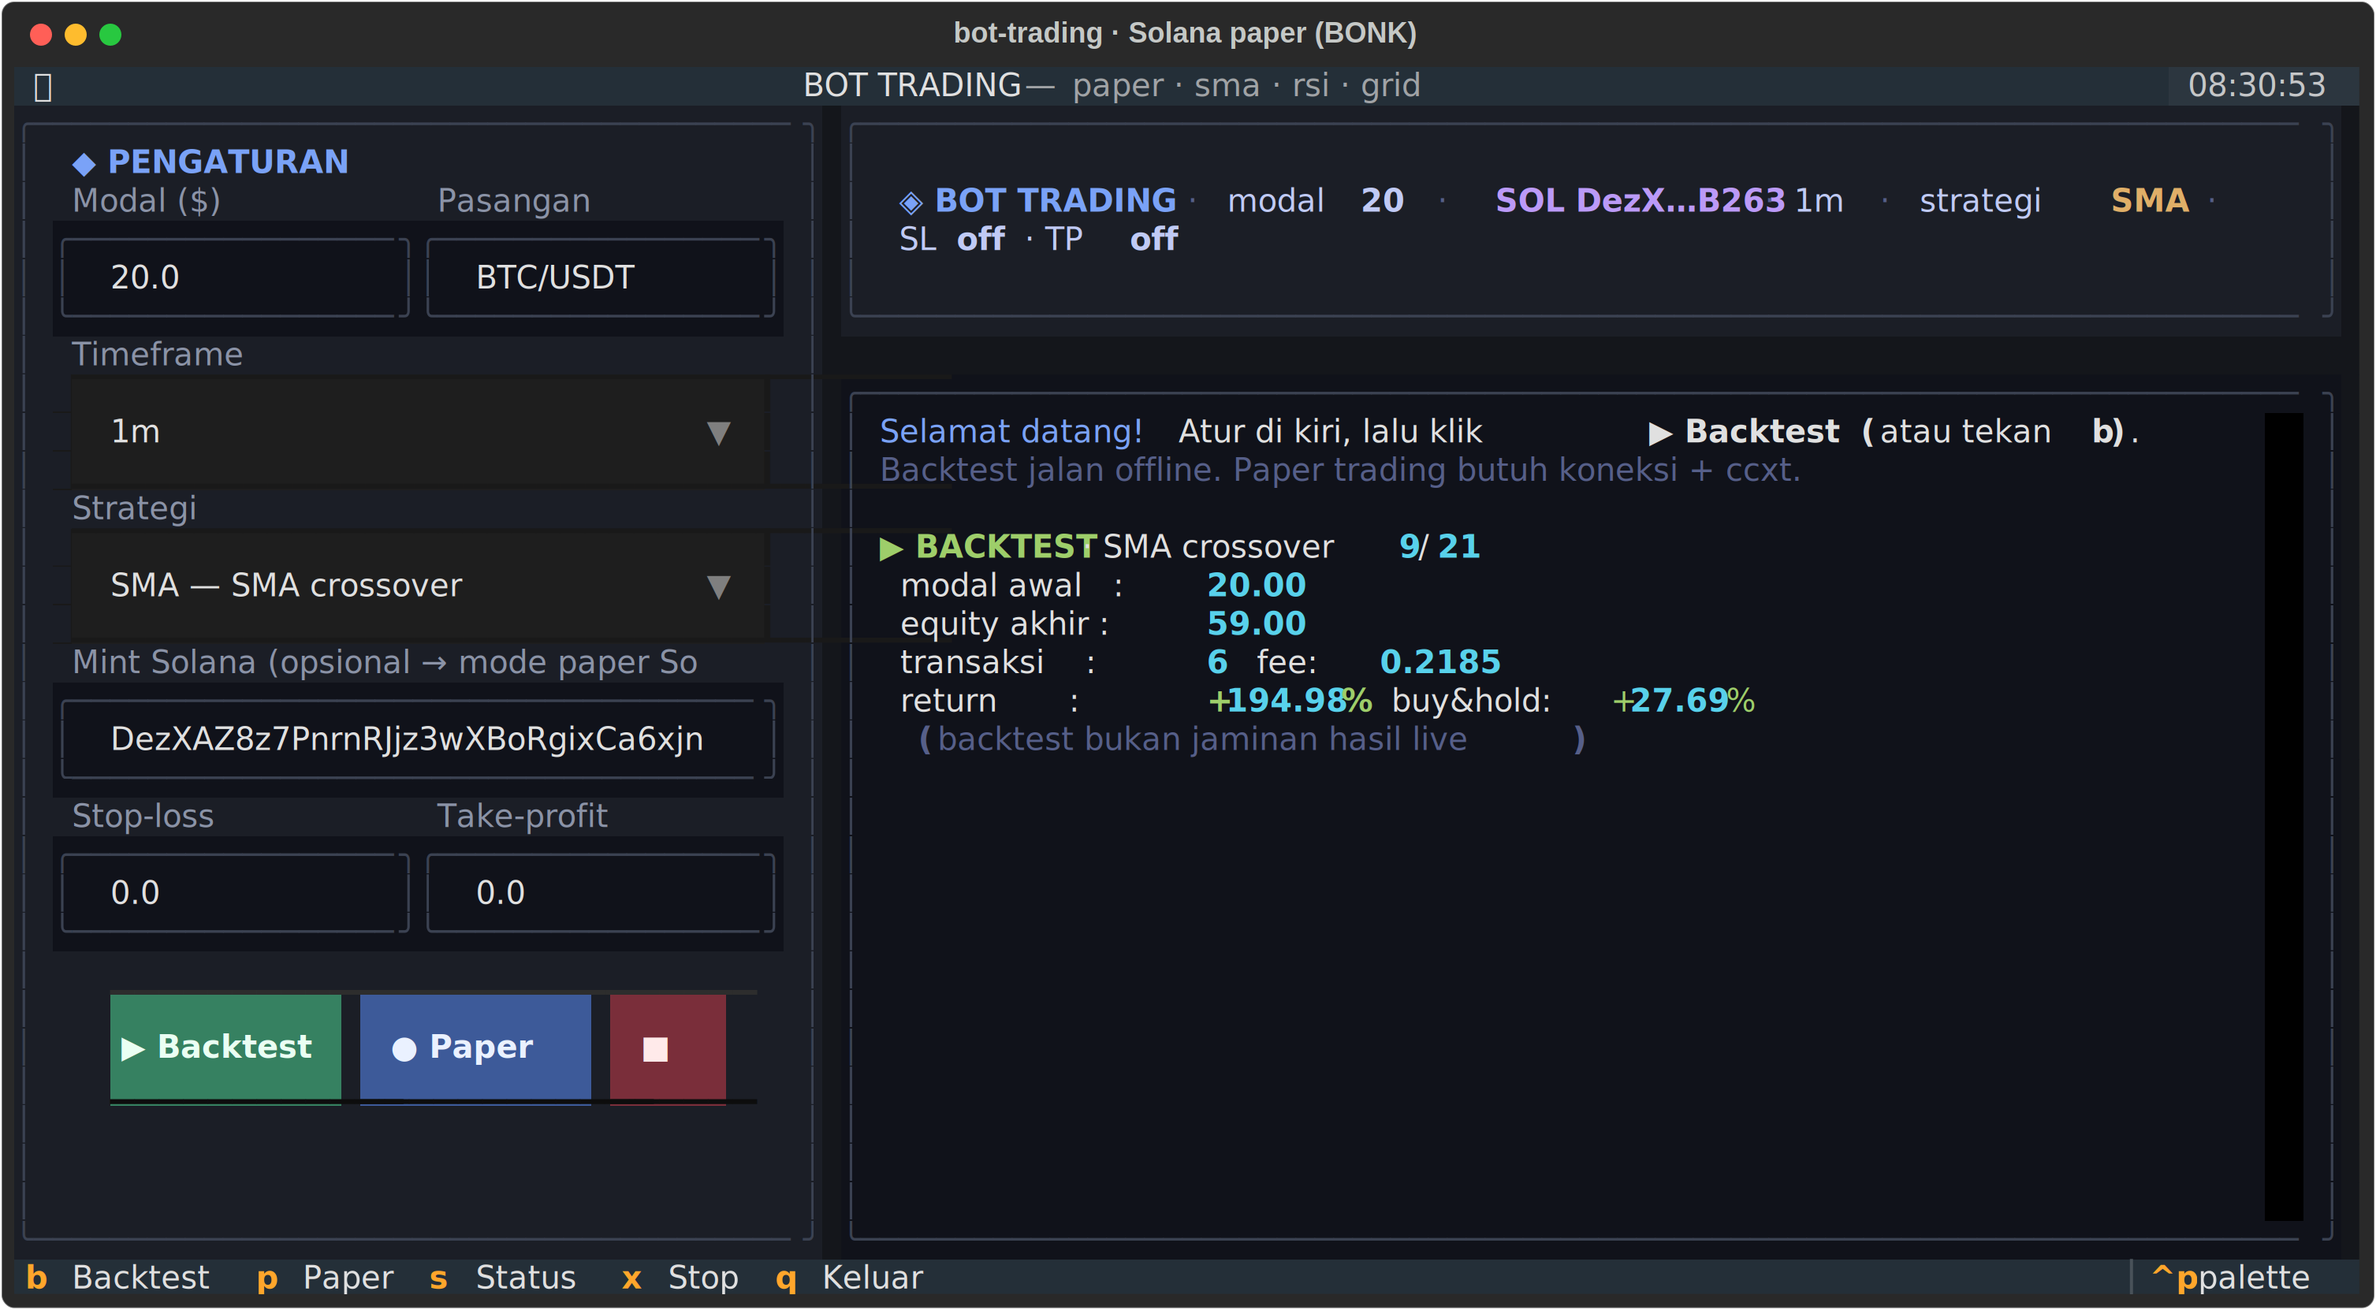
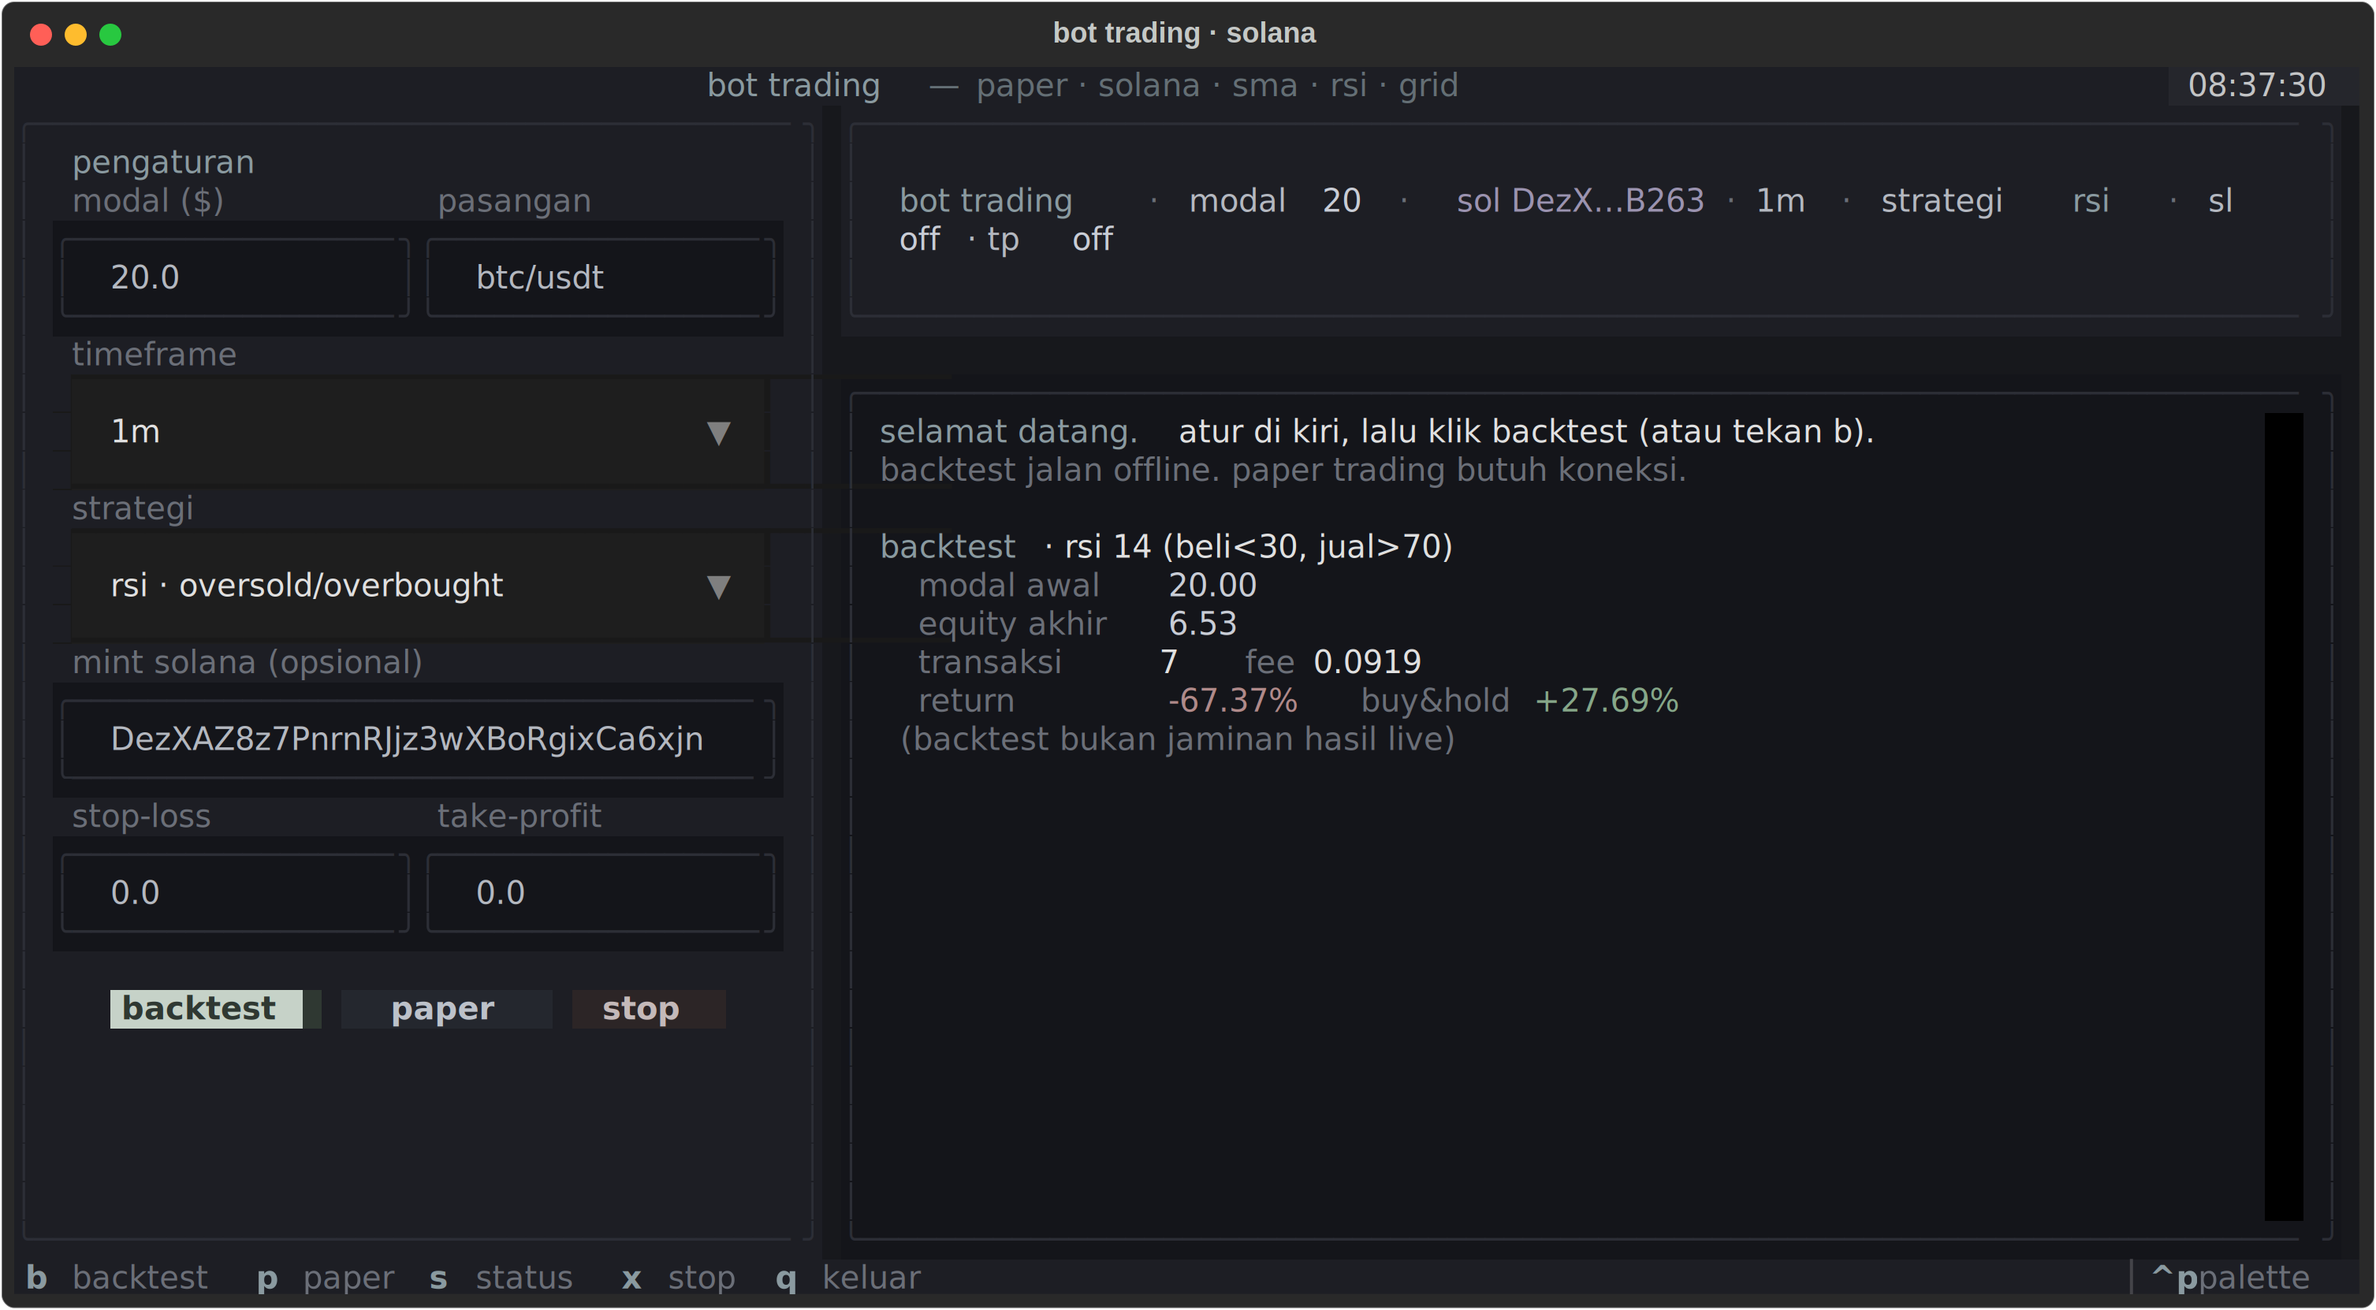
style(tui): tampilan minimalis — huruf kecil, tanpa ikon, warna kalem
- Semua teks lowercase, ikon (◆◈●■▶) dihapus, header-icon disembunyikan.
- Palet low-saturation (slate/abu) + satu warna semantik lembut untuk
  return (hijau/merah kalem) dan penanda solana (mauve redup).
- Matikan auto-highlight RichLog (biang angka cyan norak) & mute warna
  tombol + footer key.
- docs/tui.png & docs/tui_solana.png diperbarui.

Claude-Session: https://claude.ai/code/session_01QtiBvaPKcBeP3mWTks9H4K

diff --git a/bot/tui.py b/bot/tui.py
@@ -1,7 +1,6 @@
-"""TUI full-screen ala opencode — bisa diklik (mouse) & keyboard.
+"""tui minimalis — huruf kecil, tanpa ikon, warna kalem. bisa diklik & keyboard.
 
-Layout landscape ringkas biar nyaman di layar lebar / HP miring.
-Butuh: pip install textual   |   Jalankan: python3 main.py
+butuh: pip install textual   |   jalankan: python3 main.py
 """
 from __future__ import annotations
 
@@ -13,44 +12,64 @@ from textual.widgets import (Button, Footer, Header, Input, Label, RichLog,
 
 from .backtest import run_backtest, synthetic_prices
 from .config import Config
-from .strategies import AVAILABLE, build_strategy
+from .strategies import build_strategy
+
+# palet kalem (sedikit warna, low-saturation)
+A = "#8a9aa0"     # aksen slate
+V = "#c9cdd6"     # nilai (soft)
+DIM = "#6b6f78"   # redup
+POS = "#86a789"   # hijau kalem
+NEG = "#b08a8a"   # merah kalem
+MAUVE = "#9b93b0" # penanda solana
+
+STRAT_LABELS = {
+    "sma": "sma · crossover",
+    "rsi": "rsi · oversold/overbought",
+    "grid": "grid · dca",
+}
+TFS = ("1m", "5m", "15m", "1h", "4h")
 
 
 class BotTUI(App):
-    TITLE = "BOT TRADING"
-    SUB_TITLE = "paper · sma · rsi · grid"
+    TITLE = "bot trading"
+    SUB_TITLE = "paper · solana · sma · rsi · grid"
 
     CSS = """
-    Screen { background: #14161b; layout: horizontal; }
-    #sidebar {
-        width: 42; padding: 0 1; background: #1b1e26; border: round #3b4252;
-    }
-    #title { color: #7aa2f7; text-style: bold; padding: 0 1; }
+    Screen { background: #17181c; layout: horizontal; }
+    HeaderIcon { visibility: hidden; }
+    Header { background: #1d1e24; color: #8a9aa0; }
+    Footer { background: #1d1e24; }
+    FooterKey { background: #1d1e24; color: #6b6f78; }
+    FooterKey > .footer-key--key { color: #8a9aa0; background: #1d1e24; }
+    FooterKey > .footer-key--description { color: #6b6f78; background: #1d1e24; }
+
+    #sidebar { width: 42; padding: 0 1; background: #1d1e24; border: round #2c2e36; }
+    #title { color: #8a9aa0; padding: 0 1; }
     .col { width: 1fr; height: auto; }
     .row { height: auto; }
-    Label { color: #8b93a7; padding: 0 1; height: 1; }
-    Input { border: round #3b4252; background: #10121a; height: 3; }
-    Input:focus { border: round #7aa2f7; }
+    Label { color: #6b6f78; padding: 0 1; height: 1; }
+    Input { border: round #2c2e36; background: #14151a; color: #b4b8c0; height: 3; }
+    Input:focus { border: round #5f767c; }
     Select { height: 3; }
+    Select > SelectCurrent { color: #b4b8c0; }
     #btnrow { height: auto; padding: 1 0 0 0; align-horizontal: center; }
-    Button { margin: 0 1; min-width: 12; }
-    #backtest { background: #2e7d5b; color: #eafff3; text-style: bold; }
-    #paper { background: #3d5a99; color: #eaf1ff; text-style: bold; }
-    #stopbtn { background: #7a2e3a; color: #ffeaea; min-width: 6; }
+    Button { margin: 0 1; min-width: 11; border: none; color: #b4b8c0; background: #23252c; }
+    Button:hover { background: #2b2e37; }
+    #backtest { background: #263029; color: #c6d2c8; }
+    #paper { background: #24272e; color: #bcc1c9; }
+    #stopbtn { background: #2c2526; color: #c4b9b9; min-width: 8; }
     #main { width: 1fr; padding: 0 1; }
-    #summary {
-        height: auto; padding: 1 2; margin-bottom: 1;
-        background: #1b1e26; border: round #3b4252; color: #c0caf5;
-    }
-    #log { background: #10121a; border: round #3b4252; padding: 0 1; }
+    #summary { height: auto; padding: 1 2; margin-bottom: 1;
+               background: #1d1e24; border: round #2c2e36; color: #b4b8c0; }
+    #log { background: #14151a; border: round #2c2e36; padding: 0 1; }
     """
 
     BINDINGS = [
-        ("b", "backtest", "Backtest"),
-        ("p", "paper", "Paper"),
-        ("s", "status", "Status"),
-        ("x", "stop", "Stop"),
-        ("q", "quit", "Keluar"),
+        ("b", "backtest", "backtest"),
+        ("p", "paper", "paper"),
+        ("s", "status", "status"),
+        ("x", "stop", "stop"),
+        ("q", "quit", "keluar"),
     ]
 
     def __init__(self, cfg: Config) -> None:
@@ -62,37 +81,36 @@ class BotTUI(App):
     def compose(self) -> ComposeResult:
         yield Header(show_clock=True)
         with VerticalScroll(id="sidebar"):
-            yield Static("◆ PENGATURAN", id="title")
+            yield Static("pengaturan", id="title")
             with Horizontal(classes="row"):
                 with Vertical(classes="col"):
-                    yield Label("Modal ($)")
+                    yield Label("modal ($)")
                     yield Input(str(self.cfg.starting_cash), id="cash", type="number")
                 with Vertical(classes="col"):
-                    yield Label("Pasangan")
-                    yield Input(self.cfg.symbol, id="symbol")
-            yield Label("Timeframe")
-            yield Select([(t, t) for t in ("1m", "5m", "15m", "1h", "4h")],
-                         value=self.cfg.timeframe, id="timeframe", allow_blank=False)
-            yield Label("Strategi")
-            yield Select([(f"{n.upper()} — {d.split('—')[0].strip()}", n)
-                          for n, d in AVAILABLE.items()],
+                    yield Label("pasangan")
+                    yield Input(self.cfg.symbol.lower(), id="symbol")
+            yield Label("timeframe")
+            yield Select([(t, t) for t in TFS], value=self.cfg.timeframe,
+                         id="timeframe", allow_blank=False)
+            yield Label("strategi")
+            yield Select([(STRAT_LABELS[n], n) for n in STRAT_LABELS],
                          value=self.cfg.strategy, id="strategy", allow_blank=False)
-            yield Label("Mint Solana (opsional → mode paper Solana)")
+            yield Label("mint solana (opsional)")
             yield Input(self.cfg.solana_mint, id="mint")
             with Horizontal(classes="row"):
                 with Vertical(classes="col"):
-                    yield Label("Stop-loss")
+                    yield Label("stop-loss")
                     yield Input(str(self.cfg.stop_loss_pct), id="sl", type="number")
                 with Vertical(classes="col"):
-                    yield Label("Take-profit")
+                    yield Label("take-profit")
                     yield Input(str(self.cfg.take_profit_pct), id="tp", type="number")
             with Horizontal(id="btnrow"):
-                yield Button("▶ Backtest", id="backtest")
-                yield Button("● Paper", id="paper")
-                yield Button("■", id="stopbtn")
+                yield Button("backtest", id="backtest")
+                yield Button("paper", id="paper")
+                yield Button("stop", id="stopbtn")
         with Vertical(id="main"):
             yield Static(self._summary(), id="summary")
-            yield RichLog(id="log", markup=True, highlight=True, wrap=True)
+            yield RichLog(id="log", markup=True, highlight=False, wrap=True)
         yield Footer()
 
     # ── util ────────────────────────────────────────────────────
@@ -100,14 +118,14 @@ class BotTUI(App):
         c = self.cfg
         sl = f"{c.stop_loss_pct*100:g}%" if c.stop_loss_pct else "off"
         tp = f"{c.take_profit_pct*100:g}%" if c.take_profit_pct else "off"
-        d = "  [#565f89]·[/]  "
+        d = f"  [{DIM}]·[/]  "
         if c.solana_mint:
-            pasar = f"[b #bb9af7]SOL {c.solana_mint[:4]}…{c.solana_mint[-4:]}[/]"
+            market = f"[{MAUVE}]sol {c.solana_mint[:4]}…{c.solana_mint[-4:]}[/]"
         else:
-            pasar = f"[b]{c.symbol}[/]"
-        return (f"[b #7aa2f7]◈ BOT TRADING[/]{d}modal [b]{c.starting_cash:g}[/]{d}"
-                f"{pasar} [#565f89]·[/] {c.timeframe}{d}strategi [b #e0af68]{c.strategy.upper()}[/]"
-                f"{d}SL [b]{sl}[/] · TP [b]{tp}[/]")
+            market = f"[{V}]{c.symbol.lower()}[/]"
+        return (f"[{A}]bot trading[/]{d}modal [{V}]{c.starting_cash:g}[/]{d}"
+                f"{market} [{DIM}]·[/] {c.timeframe}{d}strategi [{A}]{c.strategy}[/]"
+                f"{d}sl [{V}]{sl}[/] · tp [{V}]{tp}[/]")
 
     def _refresh_summary(self) -> None:
         self.query_one("#summary", Static).update(self._summary())
@@ -137,10 +155,10 @@ class BotTUI(App):
 
     def _post_welcome(self) -> None:
         self._app_ready = True
-        self.logbox.write("[#7aa2f7]Selamat datang![/] Atur di kiri, lalu klik "
-                          "[b]▶ Backtest[/] (atau tekan [b]b[/]).")
-        self.logbox.write("[#565f89]Backtest jalan offline. Paper trading butuh "
-                          "koneksi + ccxt.[/]")
+        self.logbox.write(f"[{A}]selamat datang.[/] atur di kiri, lalu klik "
+                          "backtest (atau tekan b).")
+        self.logbox.write(f"[{DIM}]backtest jalan offline. "
+                          "paper trading butuh koneksi.[/]")
 
     # ── aksi ────────────────────────────────────────────────────
     @on(Select.Changed)
@@ -154,38 +172,39 @@ class BotTUI(App):
     def action_backtest(self) -> None:
         self._sync_cfg()
         self.logbox.write("")
-        self.logbox.write(f"[b #9ece6a]▶ BACKTEST[/] · "
-                          f"{build_strategy(self.cfg.strategy, self.cfg).describe()}")
+        desc = build_strategy(self.cfg.strategy, self.cfg).describe().lower()
+        self.logbox.write(f"[{A}]backtest[/] · {desc}")
         try:
             rep = run_backtest(synthetic_prices(n=500), self.cfg)
         except Exception as e:
-            self.logbox.write(f"[b red]error:[/] {e}")
+            self.logbox.write(f"[{NEG}]error:[/] {e}")
             return
-        col = "#9ece6a" if rep.return_pct >= 0 else "#f7768e"
-        bh = "#9ece6a" if rep.buy_hold_pct >= 0 else "#f7768e"
-        self.logbox.write(f"  modal awal   : [b]{rep.starting_cash:.2f}[/]")
-        self.logbox.write(f"  equity akhir : [b #e0af68]{rep.final_equity:.2f}[/]")
-        self.logbox.write(f"  transaksi    : {rep.n_trades}   fee: {rep.total_fees:.4f}")
-        self.logbox.write(f"  return       : [b {col}]{rep.return_pct:+.2f}%[/]   "
-                          f"buy&hold: [{bh}]{rep.buy_hold_pct:+.2f}%[/]")
-        self.logbox.write("[#565f89]  (backtest bukan jaminan hasil live)[/]")
+        col = POS if rep.return_pct >= 0 else NEG
+        bh = POS if rep.buy_hold_pct >= 0 else NEG
+        self.logbox.write(f"  [{DIM}]modal awal  [/] [{V}]{rep.starting_cash:.2f}[/]")
+        self.logbox.write(f"  [{DIM}]equity akhir[/] [{V}]{rep.final_equity:.2f}[/]")
+        self.logbox.write(f"  [{DIM}]transaksi   [/] {rep.n_trades}   "
+                          f"[{DIM}]fee[/] {rep.total_fees:.4f}")
+        self.logbox.write(f"  [{DIM}]return      [/] [{col}]{rep.return_pct:+.2f}%[/]   "
+                          f"[{DIM}]buy&hold[/] [{bh}]{rep.buy_hold_pct:+.2f}%[/]")
+        self.logbox.write(f"[{DIM}]  (backtest bukan jaminan hasil live)[/]")
 
     @on(Button.Pressed, "#paper")
     def action_paper(self) -> None:
         self._sync_cfg()
         if self._paper_running:
-            self.logbox.write("[#e0af68]paper sudah berjalan.[/]")
+            self.logbox.write(f"[{DIM}]paper sudah berjalan.[/]")
             return
         if not self.cfg.solana_mint:
             try:
                 import ccxt  # noqa: F401
             except ImportError:
-                self.logbox.write("[b red]ccxt belum terpasang.[/] "
-                                  "jalankan: pip install -r requirements.txt")
+                self.logbox.write(f"[{NEG}]ccxt belum terpasang.[/] "
+                                  "pip install -r requirements.txt")
                 return
         self._paper_running = True
-        self.logbox.write("[b #7dcfff]● PAPER TRADING dimulai[/] "
-                          "(tombol ■ / tekan x untuk stop)")
+        self.logbox.write(f"[{A}]paper trading dimulai[/] "
+                          f"[{DIM}](tombol stop / tekan x)[/]")
         self._paper_worker()
 
     @work(thread=True, exclusive=True)
@@ -205,7 +224,7 @@ class BotTUI(App):
                                 risk=RiskManager(cfg.stop_loss_pct, cfg.take_profit_pct),
                                 symbol=symbol)
         except Exception as e:
-            self.call_from_thread(self.logbox.write, f"[b red]gagal start:[/] {e!r}")
+            self.call_from_thread(self.logbox.write, f"[{NEG}]gagal start:[/] {e!r}")
             self._paper_running = False
             return
         while self._paper_running:
@@ -213,14 +232,15 @@ class BotTUI(App):
                 closes = feed.fetch_closes(limit=strat.warmup + 3)
                 price = feed.fetch_price()
                 res = eng.step(closes, price)
-                mark = (f"  [b #7dcfff]{res.executed.side} @ {price:.2f}[/] "
-                        f"({res.executed.reason})" if res.executed else "")
+                mark = (f"  [{A}]{res.executed.side.lower()} @ {price:.4g}[/] "
+                        f"[{DIM}]({res.executed.reason})[/]" if res.executed else "")
                 self.call_from_thread(
                     self.logbox.write,
-                    f"[#565f89]{_t.strftime('%H:%M:%S')}[/] harga=[b]{price:.2f}[/] "
-                    f"sinyal={res.decision.action} equity=[#e0af68]{res.equity:.4f}[/]{mark}")
+                    f"[{DIM}]{_t.strftime('%H:%M:%S')}[/] harga={price:.4g} "
+                    f"sinyal={res.decision.action.lower()} "
+                    f"equity=[{V}]{res.equity:.4f}[/]{mark}")
             except Exception as e:
-                self.call_from_thread(self.logbox.write, f"[red]tick error:[/] {e!r}")
+                self.call_from_thread(self.logbox.write, f"[{NEG}]tick error:[/] {e!r}")
             for _ in range(cfg.poll_interval_sec):
                 if not self._paper_running:
                     break
@@ -230,19 +250,19 @@ class BotTUI(App):
     def action_stop(self) -> None:
         if self._paper_running:
             self._paper_running = False
-            self.logbox.write("[#f7768e]■ paper dihentikan.[/]")
+            self.logbox.write(f"[{NEG}]paper dihentikan.[/]")
 
     def action_status(self) -> None:
         import json, os
         self._sync_cfg()
-        self.logbox.write("[b]— status —[/]")
+        self.logbox.write(f"[{A}]status[/]")
         if os.path.exists(self.cfg.state_file):
             with open(self.cfg.state_file) as fh:
                 st = json.load(fh)
-            self.logbox.write(f"  cash={st.get('cash',0):.4f} "
-                              f"position={st.get('position',0):.8f}")
+            self.logbox.write(f"  [{DIM}]cash[/] {st.get('cash',0):.4f}   "
+                              f"[{DIM}]position[/] {st.get('position',0):.8f}")
         else:
-            self.logbox.write("  belum ada state.")
+            self.logbox.write(f"  [{DIM}]belum ada state.[/]")
 
 
 def run_tui(cfg: Config) -> None:
